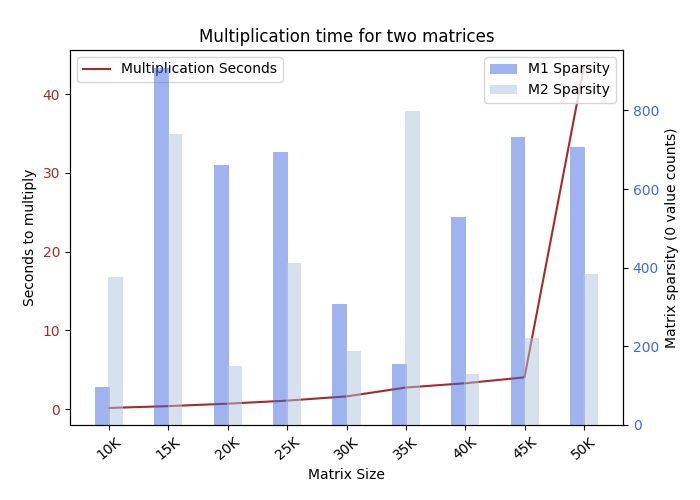
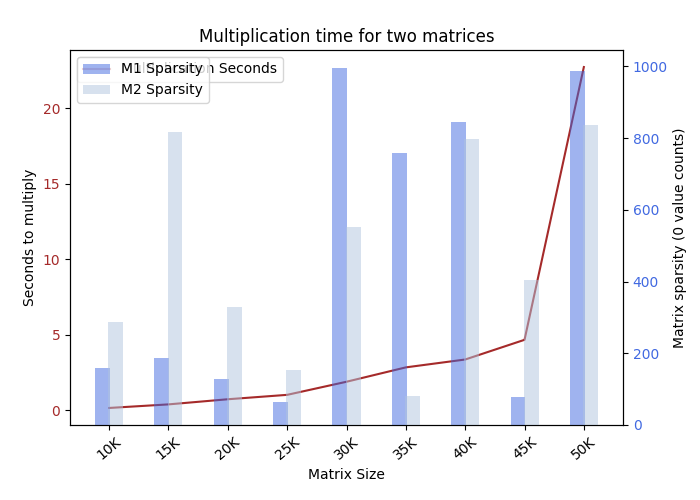
MM findings + improvements, arweave experiment base

diff --git a/src/experiments/matrix_size.py b/src/experiments/matrix_size.py
@@ -1,10 +1,7 @@
-import random
-
 from src.experiments import Experiment
 
-import os
 import time
-import json
+import orjson
 import numpy as np
 import matplotlib.pyplot as plt
 
@@ -15,6 +12,19 @@ class MatrixSizeExperiment(Experiment):
     """
     For X=Y scaling, 10K x 10K with 5K scaling works great
     For Y/X only scaling, 10K x 20K with 10K scaling works great
+
+    Finding 1: Matrix dimensions are not really important. As long as the amount of data is the same,
+    if the matrix is bigger on X or Y is relevant.
+
+    Finding 2: Sparsity of the matrix does not affect multiplication time at all, as long as we dont change
+    the algorithm. Since we are talking about rather short multiplication times in any scenario, running a
+    sparsity test will delay the process rather than provide an advantage. 0 multiplications, even if optimized
+    by numpy, don't present a problem for PoX time assumptions
+
+    TODO: Experiment with different kinds of numbers as well as precision.
+    Ideally, this experiment produces a bar plot showing various numbers ([0, 1], [-1,1], [0, +1M],[-1M,+1M])
+    across 2 or 3 levels of precision (full precision, rounded to 5 digits, to 2 and to 0). Using normally
+    distributed numbers will do.
     """
 
     START_COL_SIZE = 20000
@@ -38,22 +48,9 @@ class MatrixSizeExperiment(Experiment):
         if self.PREGENERATION:
             return
 
-        xvals, yvals, results, m0_s, m1_s = self.benchmark_multiplication(False, True)
-        self.plot_results(xvals, yvals, results, m0_s, m1_s, "Matrix Column Size")
-
-        self.START_COL_SIZE = 20000
-        self.START_ROW_SIZE = 10000
-        self.INC_Y = 10000
-        self.INC_X = 10000
-        xvals, yvals, results, m0_s, m1_s = self.benchmark_multiplication(True, False)
-        self.plot_results(xvals, yvals, results, m0_s, m1_s, "Matrix Row Size")
-
-        self.START_COL_SIZE = 10000
-        self.START_ROW_SIZE = 10000
-        self.INC_Y = 5000
-        self.INC_X = 5000
         xvals, yvals, results, m0_s, m1_s = self.benchmark_multiplication(True, True)
         self.plot_results(xvals, yvals, results, m0_s, m1_s, "Matrix Size")
+
 
     @staticmethod
     def plot_results(xvals, yvals, results, m0_s, m1_s, xlabel):
@@ -107,33 +104,40 @@ class MatrixSizeExperiment(Experiment):
         They get multiplied in 0.16 seconds.
         :return:
         """
-        if len([x for x in os.listdir() if self.PREGENERATED_FILE in x]) > 0:
-            print(Fore.CYAN + "Found pregenerated file.")
-        else:
-            print(Fore.CYAN + "No pregenerated file found. Generating.")
-            matrices = {}
-            for i in range(10):
-                m0, m1, z0, z1 = self.generate_matrix()
-                matrices['m0'] = m0.tolist()
-                matrices['m1'] = m1.tolist()
-                matrices['dimX'] = self.START_COL_SIZE
-                matrices['dimY'] = self.START_ROW_SIZE
-                matrices['sparsityM0'] = np.count_nonzero(m0 == 0)
-                matrices['sparsityM1'] = np.count_nonzero(m1 == 0)
-                print(Fore.CYAN + "Generated %dx%d matrix." % (self.START_COL_SIZE, self.START_ROW_SIZE))
-                self.START_COL_SIZE += self.INC_Y
-                self.START_ROW_SIZE += self.INC_X
-                with open("%s%d.txt" % (self.PREGENERATED_FILE, i), "wb") as f:
-                    json.dump(matrices, f)
+        print(Fore.CYAN + "No pregenerated file found. Generating.")
+        matrices = {}
+        m0, m1, z0, z1 = self.generate_matrix()
+        matrices['m0'] = m0.tolist()
+        matrices['m1'] = m1.tolist()
+        matrices['dimX'] = self.START_COL_SIZE
+        matrices['dimY'] = self.START_ROW_SIZE
+        matrices['sparsityM0'] = z0
+        matrices['sparsityM1'] = z1
+        print(Fore.CYAN + "Generated %dx%d matrix." % (self.START_COL_SIZE, self.START_ROW_SIZE))
+        with open("../resources/poxsamples/%s%dx%d_round.txt" % (self.PREGENERATED_FILE, self.START_COL_SIZE, self.START_ROW_SIZE), "wb") as f:
+            dumped = orjson.dumps(matrices)
+            lastIndex = 0
+            print(Fore.CYAN + "Dumped string.")
+            for index in range(0, len(dumped), 50000):
+                if index == 0:
+                    continue
+
+                f.write(dumped[lastIndex:index - 1])
+                lastIndex = index
+                print(Fore.CYAN + "Wrote 50K...")
+
+            if lastIndex + 50000 >= len(dumped):
+                f.write(dumped[lastIndex:])
+                print(Fore.CYAN + "Wrote last bytes.")
 
     def generate_matrix(self):
-        m0 = np.random.rand(self.START_ROW_SIZE, self.START_COL_SIZE)
-        m1 = np.random.rand(self.START_ROW_SIZE, self.START_COL_SIZE)
+        m0 = np.random.normal(10000, 500, [self.START_ROW_SIZE, self.START_COL_SIZE])
+        m1 = np.random.normal(10000, 500, [self.START_ROW_SIZE, self.START_COL_SIZE])
 
         m0_z = self.randomize(m0)
         m1_z = self.randomize(m1)
 
-        return m0, m1, m0_z, m1_z
+        return np.around(m0, 4), np.around(m1, 4), m0_z, m1_z
 
     def randomize(self, m):
         z_count = np.random.randint(0, 1000)

diff --git a/src/experiments/arweave_experiment.py b/src/experiments/arweave_experiment.py
@@ -1,0 +1,68 @@
+from src.experiments import Experiment
+
+from arweave.arweave_lib import Wallet, Transaction
+from arweave.transaction_uploader import get_uploader
+
+from colorama import Fore
+
+
+class ARWeaveExperiment(Experiment):
+
+    isUpload = False
+
+    # Don't search for it, it's not uploaded anywhere, and if it is it's empty
+    ARWEAVE_WALLET_UP = '../ar_wallet_upload.json'
+    ARWEAVE_WALLET_DOWN = '../ar_wallet_download.json'
+
+    def __init__(self, isUpload):
+        super().__init__()
+        self.isUpload = isUpload
+        self.wallet = None
+
+    def run(self):
+        if self.isUpload:
+            self.run_upload()
+        else:
+            self.run_download()
+
+    def run_upload(self):
+        pass
+
+    def run_download(self):
+        pass
+
+    def upload(self, filePath):
+        """
+        https://github.com/MikeHibbert/arweave-python-client
+        :param filePath:
+        :return:
+        """
+        with open(filePath, "rb", buffering=0) as file_handler:
+            tx = Transaction(self.wallet, file_handler=file_handler, file_path=filePath)
+            tx.add_tag('Content-Type', 'application/dat')
+            tx.sign()
+
+            uploader = get_uploader(tx, file_handler)
+
+            while not uploader.is_complete:
+                uploader.upload_chunk()
+
+                print(Fore.CYAN + "{}% complete, {}/{}".format(
+                    uploader.pct_complete, uploader.uploaded_chunks, uploader.total_chunks
+                ))
+            print(Fore.CYAN + "Upload complete! Tx: " + tx.id + ", Status: " + tx.get_status())
+
+    def configure(self, **kwargs):
+        if 'ARWEAVE_WALLET_UP' in kwargs:
+            self.ARWEAVE_WALLET_UP = kwargs['ARWEAVE_WALLET_UP']
+        if 'ARWEAVE_WALLET_DOWN' in kwargs:
+            self.ARWEAVE_WALLET_DOWN = kwargs['ARWEAVE_WALLET_DOWN']
+
+        address = self.ARWEAVE_WALLET_DOWN
+        logMessage = "download"
+        if self.isUpload:
+            address = self.ARWEAVE_WALLET_UP
+            logMessage = "upload"
+
+        self.wallet = Wallet(address)
+        print(Fore.CYAN + "Loaded wallet for %s with %.5f AR." % (logMessage, self.wallet.balance))

diff --git a/src/config/exp_constants.py b/src/config/exp_constants.py
@@ -1,4 +1,5 @@
 from src.experiments.matrix_size import MatrixSizeExperiment
+from src.experiments.arweave_experiment import ARWeaveExperiment
 
 EXP_FLAGS = {
     # Start from a small matrix size NxM and increase by K across both dimensions, and then across each dimension
@@ -9,11 +10,11 @@ EXP_FLAGS = {
 
     # Benchmarks a series of upload operations to verify AR network latency across time. This uses different file
     # sizes, and must have the key to a wallet with AR funds
-    'AR_UPLOAD_EXP': "ARUPLEXP",
+    'AR_UPLOAD_EXP': ARWeaveExperiment(True),
 
     # Similar to AR_UPLOAD_EXP, but benchmarks downloads of known, previously uploaded exercises. This will therefore
     # use a cache that's constantly updated with exercises uploaded by AR_UPLOAD_EXP, or manually.
-    'AR_DOWNLOAD_EXP': "ARDOWNEXP",
+    'AR_DOWNLOAD_EXP': ARWeaveExperiment(False),
 
     # Same as PEERCONNECT_RECV, but benchmarks running a series of sample network transactions to benchmark peer to peer
     # latency.

diff --git a/src/experiments/__init__.py b/src/experiments/__init__.py
@@ -1,2 +1,3 @@
 from src.experiments.experiment import Experiment
 from src.experiments.matrix_size import MatrixSizeExperiment
+from src.experiments.arweave_experiment import ARWeaveExperiment
